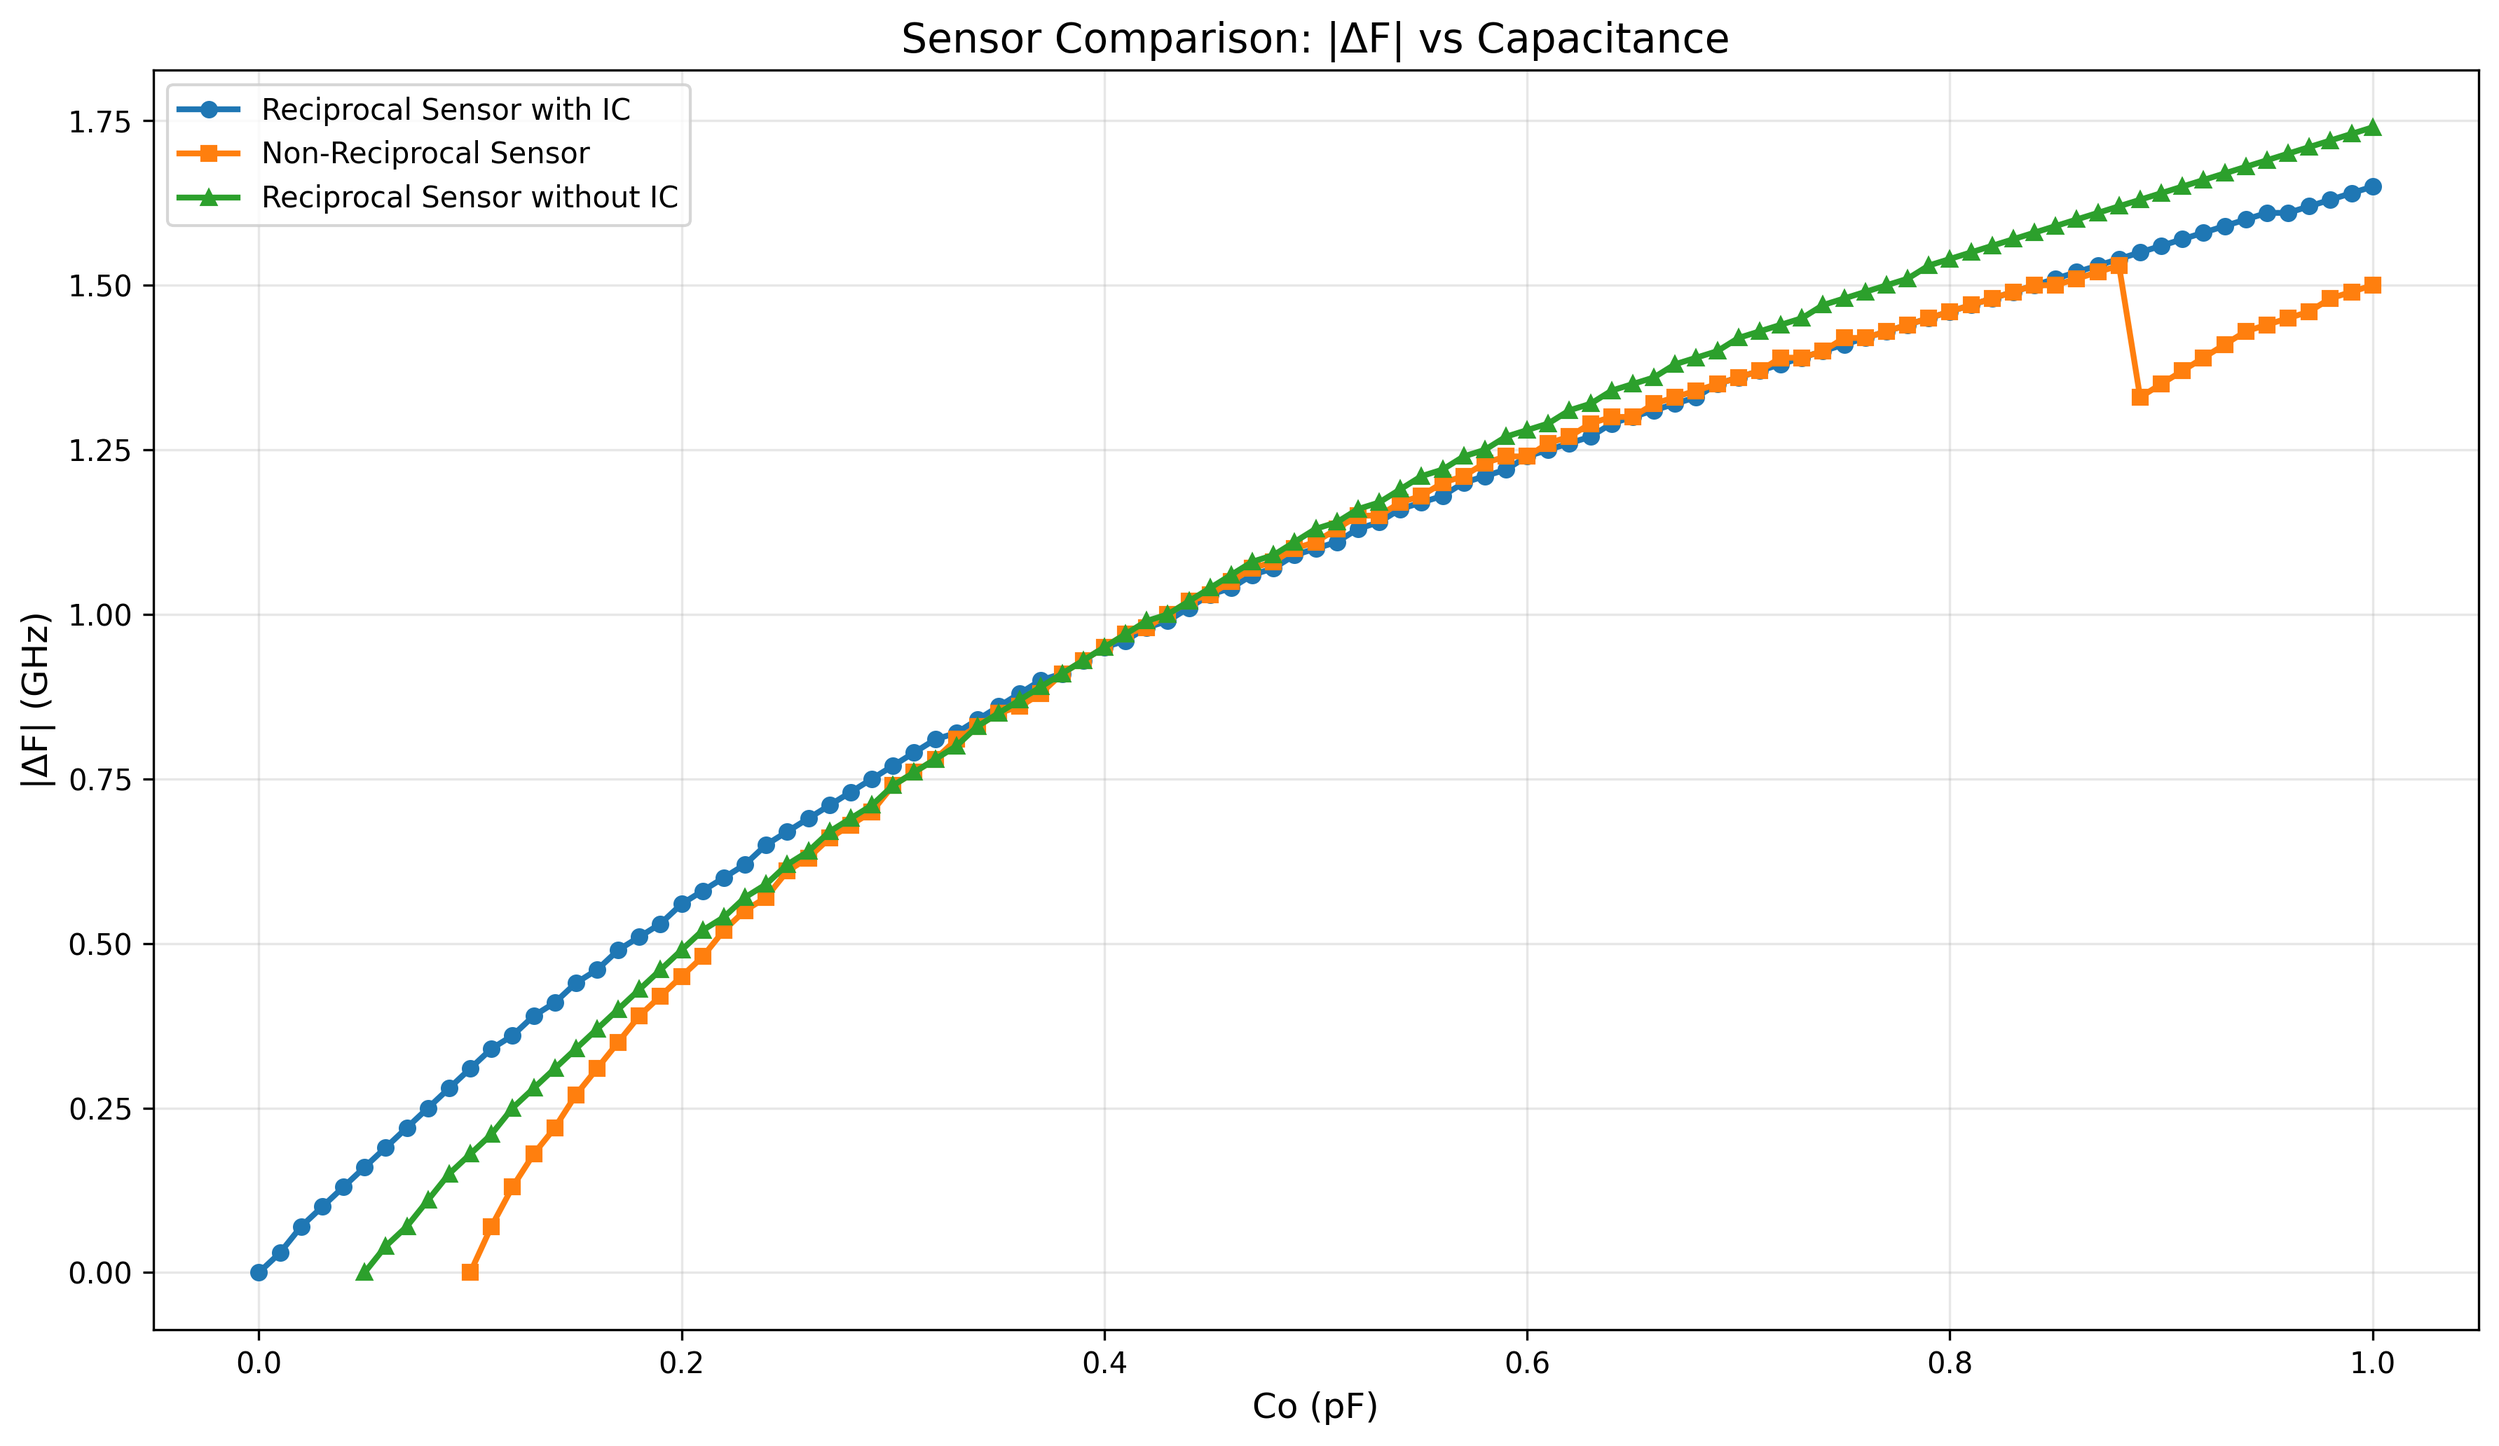
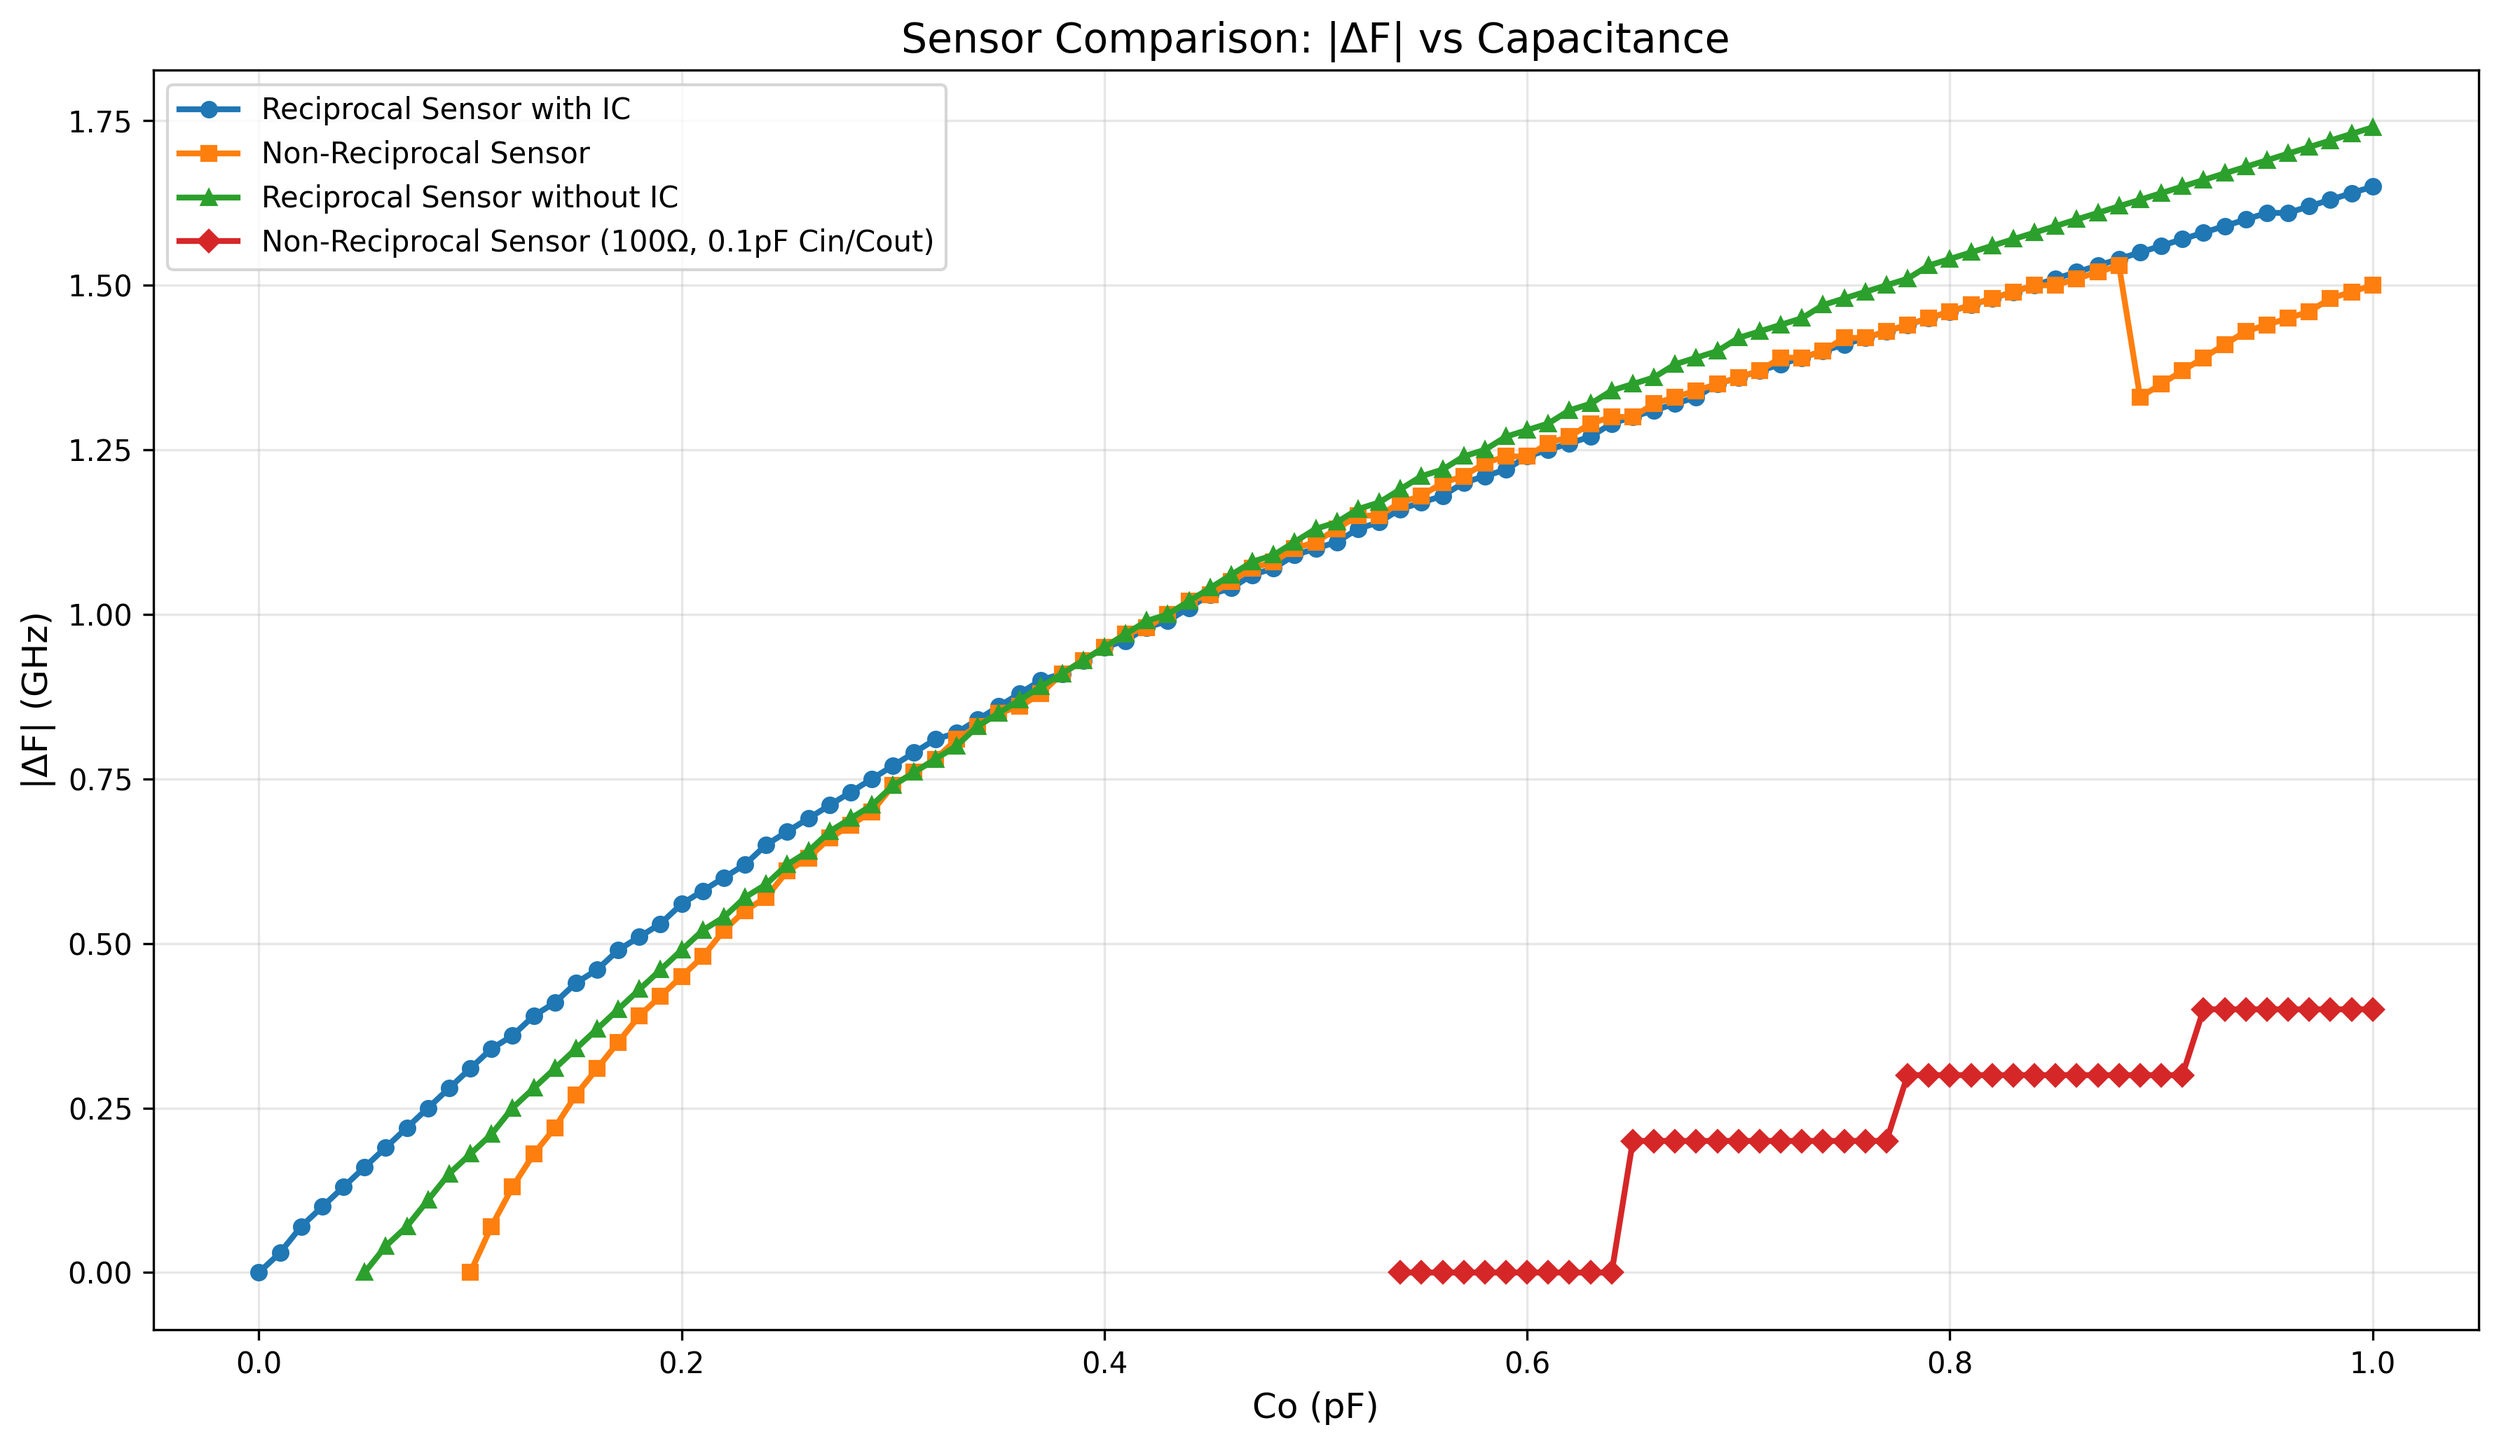
Add 4th sensor: Non-Reciprocal 100Ω with 0.1pF Cin/Cout
- Added new Excel file processing for the 100ohm non-reciprocal sensor
- Updated column name regex to handle both 'C0 =' and 'Co =' patterns
- Generated individual DeltaF vs Co plot and fitting diagnostic plots
- Updated summary comparison plot with all 4 sensors

https://claude.ai/code/session_01SgRVjLYurBKPwG16aD4KZu

Changed region(s): [[0.6537, 0.6822, 0.9649, 0.8062], [0.0623, 0.155, 0.3735, 0.186], [0.5603, 0.8682, 0.6537, 0.8992]]

diff --git a/src/process_sensor_data.py b/src/process_sensor_data.py
@@ -70,13 +70,14 @@ def load_sensor_data(filepath):
 
     # Extract transmission data for each Co value
     # We need to parse column names to find the Co value embedded in them
+    # Some files use 'C0 =' (zero) and others use 'Co =' (lowercase o)
     co_data = {}
     for col in df.columns:
-        # Look for columns containing 'C0 =' which indicates transmission data
-        if 'C0 =' in col:
+        # Look for columns containing 'C0 =' or 'Co =' which indicates transmission data
+        if 'C0 =' in col or 'Co =' in col:
             # Use regex to extract the numeric Co value from the column name
-            # Pattern matches: 'C0 = ' followed by digits and optional decimal
-            match = re.search(r'C0 = ([\d.]+)', col)
+            # Pattern matches: 'C0 = ' or 'Co = ' followed by digits and optional decimal
+            match = re.search(r'C[0o]\s*=\s*([\d.]+)', col)
             if match:
                 # Convert the matched string to a float (e.g., '0.01' -> 0.01)
                 co_val = float(match.group(1))
@@ -604,8 +605,8 @@ def plot_summary(all_results, output_path):
     plt.figure(figsize=(12, 7))
 
     # Define distinct colors and markers for each sensor
-    colors = ['#1f77b4', '#ff7f0e', '#2ca02c']  # Blue, Orange, Green
-    markers = ['o', 's', '^']  # Circle, Square, Triangle
+    colors = ['#1f77b4', '#ff7f0e', '#2ca02c', '#d62728']  # Blue, Orange, Green, Red
+    markers = ['o', 's', '^', 'D']  # Circle, Square, Triangle, Diamond
 
     # Plot each sensor's data
     for i, (name, results_df) in enumerate(all_results.items()):
@@ -767,7 +768,7 @@ def main():
     # ==========================================================================
     # SENSOR CONFIGURATION
     # ==========================================================================
-    # Define the three sensor datasets to process
+    # Define the four sensor datasets to process
     # Each entry specifies:
     # - file: path to the Excel data file
     # - name: human-readable name for plot titles
@@ -791,6 +792,12 @@ def main():
             'file': 'data/reciprocal sensor without IC (0-1pf_.xlsx',
             'name': 'Reciprocal Sensor without IC',
             'output_prefix': 'reciprocal_without_IC',
+            'single_peak': False  # Use two-peak detection
+        },
+        {
+            'file': 'data/Non reciprocal Sensor (0-1pf) co sweep 100ohm and .1pf cin-cout.xlsx',
+            'name': 'Non-Reciprocal Sensor (100Ω, 0.1pF Cin/Cout)',
+            'output_prefix': 'non_reciprocal_100ohm',
             'single_peak': False  # Use two-peak detection
         }
     ]
